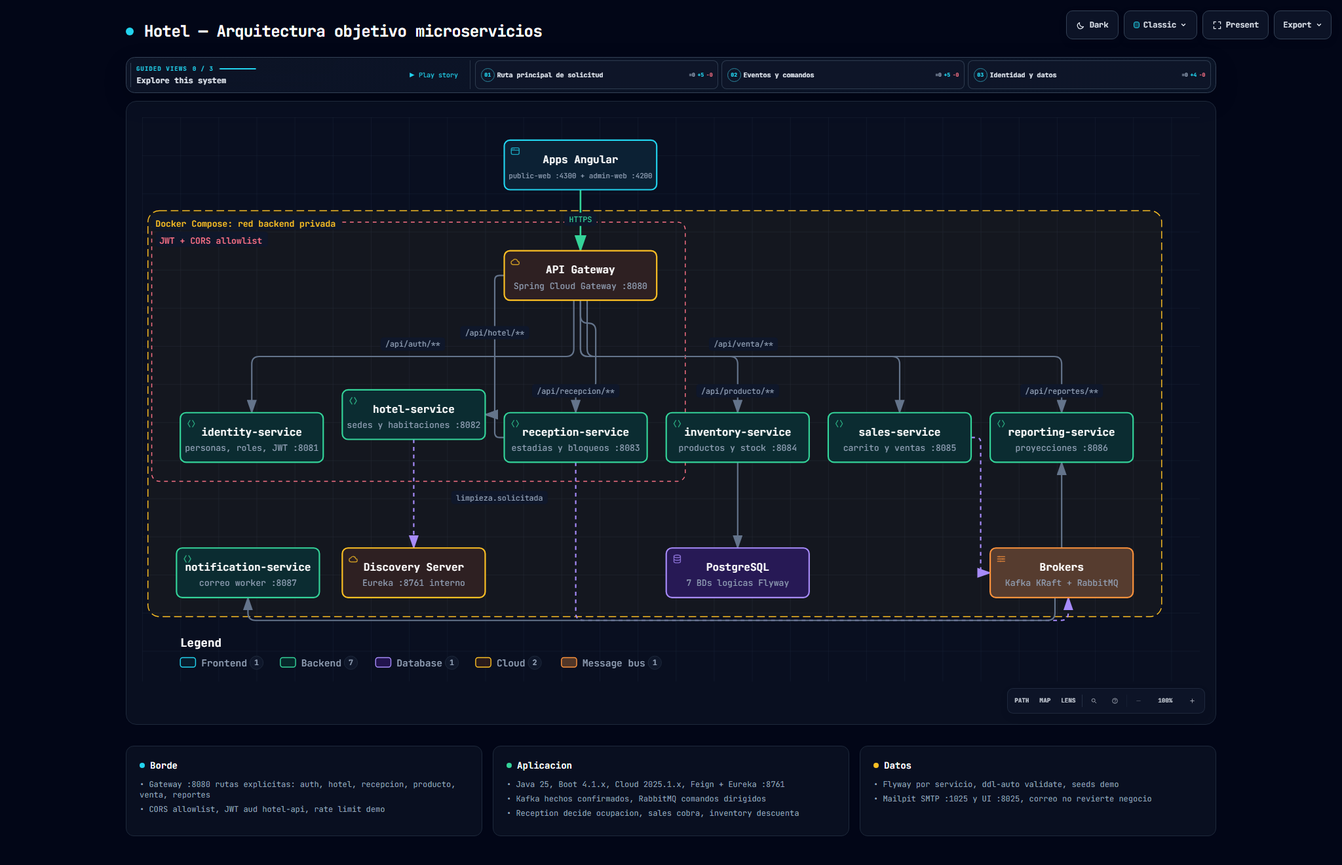
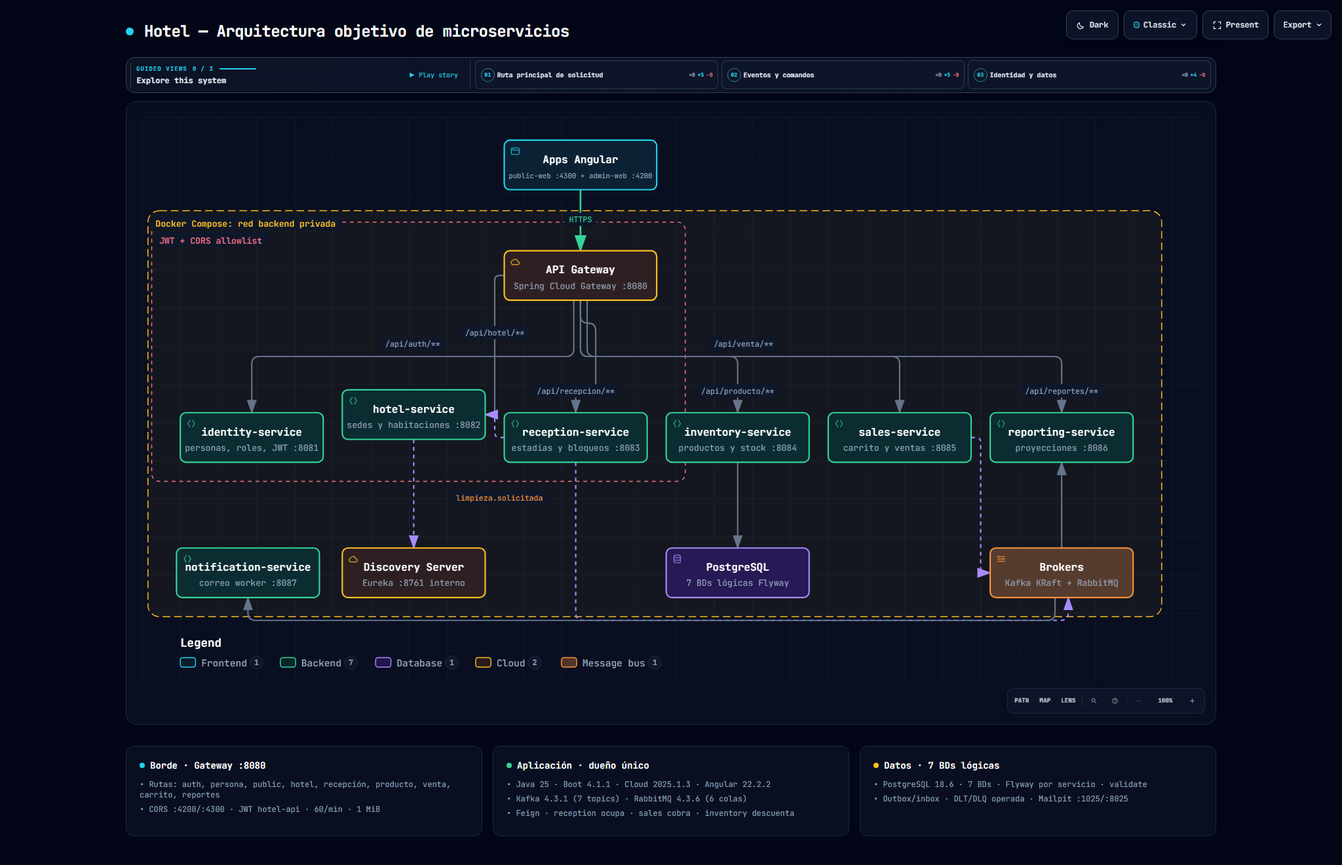
docs: actualiza diagrama de arquitectura del hotel

diff --git a/docs/diagramas/arquitectura-hotel/arquitectura-hotel.html b/docs/diagramas/arquitectura-hotel/arquitectura-hotel.html
@@ -4,7 +4,7 @@
   <meta charset="UTF-8">
   <meta name="viewport" content="width=device-width, initial-scale=1.0">
   <meta name="generator" content="archify 2.17.0-dev.1">
-  <title>Hotel — Arquitectura objetivo microservicios Diagram</title>
+  <title>Hotel — Arquitectura objetivo de microservicios Diagram</title>
   <script>
     // Resolve the theme before first paint so light-preference users don't
     // see a dark flash. The toolbar script below re-applies with UI state.
@@ -5081,11 +5081,11 @@ OTHER DEALINGS IN THE FONT SOFTWARE.
            data-preset-badge-blueprint="BLUEPRINT / REV 01"
            data-preset-badge-editorial="EDITORIAL / FIELD NOTE">
         <div class="pulse-dot"></div>
-        <h1>Hotel — Arquitectura objetivo microservicios</h1>
+        <h1>Hotel — Arquitectura objetivo de microservicios</h1>
       </div>
     </div>
 
-    <script id="archify-guided-views-data" type="application/json">[{"id":"ruta-principal","label":"Ruta principal de solicitud","focus":["webapps","gateway","reception","hotel","postgres"],"note":"Del panel y landing al Gateway y a recepcion y hotel hasta su BD propia."},{"id":"eventos-comandos","label":"Eventos y comandos","focus":["reception","sales","brokers","reporting","notification"],"note":"Hechos Kafka a reporting y comandos RabbitMQ a hotel, inventory y notificacion."},{"id":"identidad-datos","label":"Identidad y datos","focus":["gateway","identity","postgres","brokers"],"note":"JWT de identity validado en Gateway con siete BDs logicas separadas."}]</script>
+    <script id="archify-guided-views-data" type="application/json">[{"id":"ruta-principal","label":"Ruta principal de solicitud","focus":["webapps","gateway","reception","hotel","postgres"],"note":"Del panel y landing al Gateway y a recepción y hotel hasta su BD propia."},{"id":"eventos-comandos","label":"Eventos y comandos","focus":["reception","sales","brokers","reporting","notification"],"note":"Hechos Kafka a reporting y comandos RabbitMQ a hotel, inventory y notificación."},{"id":"identidad-datos","label":"Identidad y datos","focus":["gateway","identity","postgres","brokers"],"note":"JWT de identity validado en Gateway con siete BDs lógicas separadas."}]</script>
 
     <script id="archify-i18n-data" type="application/json">{"locale":"en","messages":{"viewer.kind.frontend":"Frontend","viewer.kind.backend":"Backend","viewer.kind.database":"Database","viewer.kind.cloud":"Cloud","viewer.kind.security":"Security","viewer.kind.messagebus":"Message bus","viewer.kind.external":"External","viewer.kind.neutral":"Neutral","viewer.kind.node":"Node","viewer.kind.start":"Start","viewer.kind.active":"Active","viewer.kind.waiting":"Waiting","viewer.kind.decision":"Decision","viewer.kind.success":"Success","viewer.kind.failure":"Failure","viewer.toolbar.actions":"Diagram actions","viewer.theme.toggle.title":"Toggle theme (T)","viewer.theme.toggle":"Toggle color theme","viewer.theme.dark":"Dark","viewer.theme.light":"Light","viewer.preset.choose.title":"Choose visual style (S cycles)","viewer.preset.choose":"Choose visual style","viewer.preset.style":"Style","viewer.preset.menu":"Visual style","viewer.preset.identity":"Visual identity","viewer.preset.cycles":"S cycles","viewer.preset.classic":"Classic","viewer.preset.classic.short":"Classic","viewer.preset.classic.hint":"Stable technical default","viewer.preset.flow":"Signal Flow","viewer.preset.flow.short":"Flow","viewer.preset.flow.hint":"Motion-forward presentation","viewer.preset.blueprint":"Blueprint","viewer.preset.blueprint.hint":"Engineering review","viewer.preset.editorial":"Editorial","viewer.preset.editorial.hint":"Publication and launch notes","viewer.preset.badge.signalFlow":"SIGNAL FLOW","viewer.preset.badge.blueprint":"BLUEPRINT / REV 01","viewer.preset.badge.editorial":"EDITORIAL / FIELD NOTE","viewer.preset.badge.editorialPlate":"ARCHIFY / PLATE 04","viewer.preset.current":"Visual style: {style}. Choose visual style","viewer.motion.live":"Live","viewer.motion.still":"Still","viewer.motion.pause":"Pause motion","viewer.motion.resume":"Resume motion","viewer.motion.reduced":"Motion paused by reduced-motion preference","viewer.motion.hidden":"Motion paused while this page is hidden","viewer.motion.yielding":"Pause motion; currently yielding to {owner}","viewer.motion.yielding.title":"Live preview enabled · yielding to {owner}","viewer.owner.story":"the guided story","viewer.owner.chapter":"the active chapter","viewer.owner.chapterPreview":"the chapter delta preview","viewer.owner.handoff":"the chapter handoff","viewer.owner.route":"Route Probe","viewer.owner.lens":"Semantic Lens","viewer.owner.relationship":"Relationship Preview","viewer.owner.intent":"Intent Trace","viewer.owner.focus":"semantic focus","viewer.owner.legend":"legend preview","viewer.owner.reader":"reader interaction","viewer.present.enter":"Enter presentation stage","viewer.present.enter.title":"Presentation stage (F)","viewer.present.exit":"Exit presentation stage","viewer.present.exit.title":"Exit presentation stage (F or Escape)","viewer.present.present":"Present","viewer.present.exit.label":"Exit","viewer.export.button":"Export","viewer.export.button.title":"Export diagram (E)","viewer.export.diagram":"Export diagram","viewer.export.menu":"Export","viewer.export.subtitle":"Portable, clean outputs","viewer.export.share":"Share","viewer.export.shareCard":"Share Card","viewer.export.routeShareCard":"Route Share Card","viewer.export.reachShareCard":"Reach Share Card","viewer.export.copyShareCard":"Copy Share Card","viewer.export.copyDiagram":"Copy diagram","viewer.export.clipboardPng":"PNG to clipboard","viewer.export.raster":"Raster images","viewer.export.image":"Image","viewer.export.lossless":"Lossless image","viewer.export.compact":"Compact image","viewer.export.modern":"Modern image","viewer.export.vectorMotion":"Vector and motion","viewer.export.vectorMotion.heading":"Vector \u0026 motion","viewer.export.editable":"Editable vector","viewer.export.motion6s":"6s motion","viewer.export.unsupported":"Not supported by this browser","viewer.export.clipboardUnsupported":"Clipboard image write not supported by this browser","viewer.export.clipboardUnsupported.period":"Clipboard image write not supported by this browser.","viewer.export.clipboardUnsupported.short":"Clipboard image write not supported in this browser.","viewer.export.motionUnavailable":"Motion capture unavailable in this browser","viewer.export.webmUnavailable":"WebM unavailable in this browser","viewer.export.failed":"Export failed: {message}","viewer.export.unknownVariant":"Unknown Share Card variant: {variant}","viewer.export.routeRequired":"Trace a route before exporting a Route Share Card","viewer.export.reachRequired":"Trace authored reach before exporting a Reach Share Card","viewer.export.unknown":"unknown","viewer.export.routeFailed":"Route Share Card export failed: {message}","viewer.export.reachFailed":"Reach Share Card export failed: {message}","viewer.export.copyFailed":"Copy failed: {message}","viewer.export.copiedPng":"Copied PNG to clipboard","viewer.export.copiedShare":"Copied Share Card","viewer.export.downloadedShare":"Downloaded Share Card","viewer.export.downloadedRoute":"Downloaded Route Share Card","viewer.export.downloadedReach":"Downloaded Reach Share Card","viewer.export.downloadedWebm":"Downloaded WebM","viewer.export.recording":"Recording 6 seconds of motion…","viewer.export.card.routeSummary.one":"Route: {source} → {target} · {count} directed hop","viewer.export.card.routeSummary.other":"Route: {source} → {target} · {count} directed hops","viewer.export.card.reachSummary":"Authored {direction} from {origin} · {nodes} · {links} · max {hops}","viewer.export.card.node.one":"{count} node","viewer.export.card.node.other":"{count} nodes","viewer.export.card.link.one":"{count} link","viewer.export.card.link.other":"{count} links","viewer.export.card.hop.one":"{count} hop","viewer.export.card.hop.other":"{count} hops","viewer.export.card.routeBadge":"ARCHIFY · ROUTE · {hops}","viewer.export.card.reachBadge":"ARCHIFY · {direction} REACH","viewer.export.card.defaultBadge":"ARCHIFY · {preset} · {theme}","viewer.export.direction.upstream":"Upstream","viewer.export.direction.downstream":"Downstream","viewer.export.error.canvasUnavailable":"Canvas unavailable for {label}","viewer.export.error.contextUnavailable":"2D canvas context unavailable for {label}","viewer.export.error.toBlobUnavailable":"canvas.toBlob unavailable for {label}","viewer.export.error.toBlobNull":"canvas.toBlob returned no data for {label}","viewer.export.error.variantsCombined":"Share Card variants cannot be combined","viewer.export.error.viewerState":"Share Card export could not remove temporary viewer state","viewer.export.error.routeState":"Route Card export could not preserve the resolved route safely","viewer.export.error.reachState":"Reach Card export could not preserve authored reach safely","viewer.export.error.webmRequirements":"WebM motion export requires a trace animation and browser MediaRecorder support","viewer.export.error.mediaRecorder":"MediaRecorder failed","viewer.export.error.emptyWebm":"MediaRecorder produced an empty WebM","viewer.export.error.webmBackground":"SVG background could not be loaded for WebM export","viewer.guided.region":"Guided diagram views","viewer.guided.previous":"Previous guided view","viewer.guided.previous.title":"Previous guided view ([)","viewer.guided.next":"Next guided view","viewer.guided.next.title":"Next guided view (])","viewer.guided.views":"Guided views","viewer.guided.explore":"Explore this system","viewer.guided.intro":"Step through curated paths without changing the source diagram.","viewer.guided.trail":"Story trail","viewer.guided.beat":"Beat","viewer.guided.nextBeat":"Next","viewer.guided.play":"Play guided story","viewer.guided.play.title":"Play guided story (P)","viewer.guided.pause":"Pause guided story","viewer.guided.pause.title":"Pause guided story (P)","viewer.guided.replay":"Replay guided story","viewer.guided.replay.title":"Replay guided story (P)","viewer.guided.playStory":"Play story","viewer.guided.pauseStory":"Pause","viewer.guided.replayStory":"Replay story","viewer.guided.motionUnavailable":"Story playback unavailable while motion is Still","viewer.guided.enableMotion":"Switch motion to Live to play the guided story","viewer.guided.selectBeatLink":"Select a Story Beat to copy its exact link","viewer.guided.copyMoment":"Copy moment","viewer.guided.momentCopied":"Moment link copied","viewer.guided.momentCopyFailed":"Could not copy story moment link","viewer.guided.copied":"Copied","viewer.guided.copyFailed":"Copy failed","viewer.guided.showAll":"Show all","viewer.guided.showAll.aria":"Show entire diagram","viewer.guided.chapters":"Story chapters","viewer.guided.storyTrail":"Story trail for {label}: {count} beats","viewer.guided.chapter.open":"Open chapter {index} of {total}: {label}, {count} stops","viewer.guided.chapter.current":"Current chapter {index} of {total}: {label}, {count} stops","viewer.guided.chapter.selectedNodes":"{count} selected nodes","viewer.guided.chapter.stops":"{count} stops","viewer.guided.chapter.stop.one":"{count} stop","viewer.guided.chapter.stop.other":"{count} stops","viewer.guided.chapter.current.title":"{label} — current chapter, {count} stops","viewer.guided.chapter.delta.expanded":"{stay} stay, {enter} enter, {leave} leave","viewer.guided.chapter.delta.aria":"Open chapter {index} of {total}: {label}. Chapter focus delta: {delta}","viewer.guided.chapter.delta.title":"{label} — {delta} chapter focus","viewer.guided.handoff":"{from} → {to} · via {label}","viewer.guided.share.chapter":"Chapter {index} / {total}","viewer.guided.share.initial":"Chapter 01 / 01","viewer.guided.share.default":"Guided chapter","viewer.guided.state.ready":"Ready","viewer.guided.state.playing":"Playing","viewer.guided.state.settled":"Settled","viewer.guided.state.paused":"Paused","viewer.guided.state.pinned":"Pinned","viewer.guided.state.still":"Still","viewer.guided.share.step":"Step {index} / {total} · {label}","viewer.guided.share.staticMoment":"{step} · Static moment","viewer.guided.share.complete":"{count} steps complete · {note}","viewer.guided.share.settled":"Path settled for reading.","viewer.guided.share.staticPath":"{count} steps · Static path","viewer.guided.share.ready":"{count} steps · Ready","viewer.guided.share.aria":"{state} chapter {index} of {total}: {label}. {beat}. {route}","viewer.guided.beat.start":"Beat {index} / {total} · {label} · starting point","viewer.guided.beat.forward":"Beat {index} / {total} · {from} → {to}","viewer.guided.beat.reverse":"Beat {index} / {total} · {from} → {to} · reverse authored link","viewer.guided.beat.multiple":"Beat {index} / {total} · {from} ⇄ {to} · {count} authored links","viewer.guided.beat.group":"Beat {index} / {total} · {from} · {to} · grouped · no direct link","viewer.guided.beat.aria.prefix":"Story beat {index} of {total}: {label}. ","viewer.guided.beat.aria.start":"Starting point.","viewer.guided.beat.aria.forward":"From {from} through one authored forward relationship.","viewer.guided.beat.aria.reverse":"From {from}; the authored relationship points from {to} to {from}.","viewer.guided.beat.aria.multiple":"From {from} through {count} authored relationships; shown without arbitrary motion.","viewer.guided.beat.aria.group":"Grouped from {from} with no direct authored relationship.","viewer.guided.caption.start":"Starting point","viewer.guided.caption.grouped":"Grouped transition · no direct authored link","viewer.guided.caption.more":" +{count} more","viewer.guided.caption.reverse":"Reverse authored relationship","viewer.guided.caption.relationships":"{count} authored relationships","viewer.guided.caption.relationship":"Authored relationship","viewer.guided.caption.direction":"authored direction: {from} → {to}","viewer.guided.caption.starting":"Authored starting point","viewer.guided.beatLink":"Copy link to current story moment: Beat {index} of {total}: {label}","viewer.guided.noStory":"This diagram has no authored guided story.","viewer.guide.eyebrow":"Diagram guide","viewer.guide.close":"Close diagram guide","viewer.guide.inspecting":"Inspecting compiled semantics","viewer.guide.actions":"Diagram exploration actions","viewer.guide.find":"Find any node","viewer.guide.find.hint":"Search labels, responsibilities, kinds, and stable IDs.","viewer.guide.route":"Trace a route","viewer.guide.route.aria":"Trace a directed route","viewer.guide.route.hint":"Ask how two semantic nodes connect in authored direction.","viewer.guide.map":"See the whole system","viewer.guide.map.hint":"Open Semantic Radar with a live viewport and stable nodes.","viewer.guide.lens":"Compare semantic kinds","viewer.guide.lens.hint":"Count roles, reveal their traffic, and compare direct authored links.","viewer.guide.story":"Play the guided story","viewer.guide.story.hint":"Walk the authored chapters and real relationships.","viewer.guide.present":"Enter Presentation Stage","viewer.guide.present.hint":"Give the live diagram the viewport without changing export.","viewer.guide.shortcuts":"Additional keyboard shortcuts","viewer.guide.shortcut.export":"Export","viewer.guide.shortcut.theme":"Theme","viewer.guide.shortcut.style":"Style","viewer.guide.shortcut.reset":"Reset","viewer.guide.shortcut.zoomIn":"Zoom in","viewer.guide.shortcut.zoomOut":"Zoom out","viewer.guide.shortcut.close":"Close","viewer.guide.facts":"{nodes} · {relationships} · {views}","viewer.guide.fact.node.one":"{count} semantic node","viewer.guide.fact.node.other":"{count} semantic nodes","viewer.guide.fact.relationship.one":"{count} relationship","viewer.guide.fact.relationship.other":"{count} relationships","viewer.guide.fact.view.one":"{count} guided view","viewer.guide.fact.view.other":"{count} guided views","viewer.guide.story.available.one":"Walk {count} authored chapter and its real relationships.","viewer.guide.story.available.other":"Walk {count} authored chapters and their real relationships.","viewer.guide.story.unavailable":"No authored guided story in this diagram.","viewer.guide.open":"Open diagram guide","viewer.guide.noStory":"This diagram has no authored guided story.","viewer.finder.title":"Find a node","viewer.finder.close":"Close node finder","viewer.finder.placeholder":"Search labels or IDs","viewer.finder.search":"Search diagram nodes","viewer.finder.results":"Diagram nodes","viewer.finder.empty":"No matching nodes","viewer.finder.result.focus":"Focus {label}","viewer.finder.result.routeStart":"Choose {label} as route start","viewer.finder.result.routeTarget":"Choose {label} as route destination, {links}","viewer.finder.status.empty":"No matching nodes","viewer.finder.status.count.one":"{count} matching node","viewer.finder.status.count.other":"{count} matching nodes","viewer.finder.noun.nodes":"nodes","viewer.finder.link.one":"{count} link","viewer.finder.link.other":"{count} links","viewer.finder.result.focus.one":"Focus {label}, {count} related connection","viewer.finder.result.focus.other":"Focus {label}, {count} related connections","viewer.finder.status.filtered":"{visible} of {available} {noun}","viewer.finder.status.all":"{available} {noun}","viewer.passport.eyebrow":"Semantic passport","viewer.passport.metadata":"Node metadata","viewer.passport.evidence":"Verified source evidence","viewer.passport.verified":"Verified source","viewer.passport.verificationScope":"Verified against local Git at the pinned revision. Remote access has not been checked.","viewer.passport.reach":"Authored reach","viewer.passport.reach.trace":"Trace authored reachability","viewer.passport.upstream":"Upstream","viewer.passport.downstream":"Downstream","viewer.passport.upstream.trace":"Trace upstream authored reachability","viewer.passport.downstream.trace":"Trace downstream authored reachability","viewer.passport.close":"Close semantic passport","viewer.passport.copy":"Copy link","viewer.passport.copy.focus":"Copy link to focused node","viewer.passport.relations":"Relations","viewer.passport.relations.show":"Show connected relationships","viewer.passport.relations.hide":"Hide connected relationships","viewer.passport.relations.list":"Connected relationships","viewer.passport.copyRelation":"Copy relation","viewer.passport.copyNode":"Copy node","viewer.passport.copyPinned":"Copy link to pinned relationship","viewer.passport.copySource":"Copy link to source node","viewer.passport.copy.focused.success":"Focused node link copied","viewer.passport.copy.pinned.success":"Pinned relationship link copied","viewer.passport.copy.focused.failed":"Could not copy focused node link","viewer.passport.copy.pinned.failed":"Could not copy pinned relationship link","viewer.passport.relationship.none":"No connected relationships","viewer.passport.relationship.count.one":"{count} relation","viewer.passport.relationship.count.other":"{count} relations","viewer.passport.relationship.show.one":"Show {count} connected relationship","viewer.passport.relationship.show.other":"Show {count} connected relationships","viewer.passport.relationship.summary":"{out} outgoing · {in} incoming{loops}","viewer.passport.relationship.loops":" · {count} loop","viewer.passport.relationship.explorer":"Direct relationship explorer","viewer.passport.relationship.help":"Use arrow keys to explore relationships. Press Enter or Space to pin details; Escape clears.","viewer.passport.relationship.loopsBack":"loops back","viewer.passport.relationship.connectsTo":"connects to","viewer.passport.relationship.connectsFrom":"connects from","viewer.passport.relationship.pinned":"Pinned relationship · {from} → {to} · {label}","viewer.passport.relationship.inspect":"Inspect relationship {index} of {total}: {from} to {to}, {label}. Press Enter for details.","viewer.passport.relationship.group.out":"Outgoing","viewer.passport.relationship.group.in":"Incoming","viewer.passport.relationship.group.loop":"Self loops","viewer.passport.relationship.row":"{group}: {relationship}, {neighbor}","viewer.passport.relationship.direction.out":"OUT →","viewer.passport.relationship.direction.in":"← IN","viewer.passport.relationship.direction.loop":"LOOP","viewer.passport.sourceCount.one":"{count} verified source reference","viewer.passport.sourceCount.other":"{count} verified source references","viewer.passport.sourceMarker":"SRC","viewer.passport.beacon.one":"{count} verified source; focus this node to inspect","viewer.passport.beacon.other":"{count} verified sources; focus this node to inspect","viewer.passport.repository.open":"Open verified repository revision {revision}","viewer.passport.source.open":"Open verified source {path} at revision {revision}","viewer.passport.source.openLink":"Open ↗","viewer.passport.reach.upstream.one":"Trace {count} upstream authored node","viewer.passport.reach.upstream.other":"Trace {count} upstream authored nodes","viewer.passport.reach.downstream.one":"Trace {count} downstream authored node","viewer.passport.reach.downstream.other":"Trace {count} downstream authored nodes","viewer.passport.reach.noUpstream":"No upstream authored nodes","viewer.passport.reach.noDownstream":"No downstream authored nodes","viewer.passport.reach.status":"{direction} · {nodes} nodes · {links} links · max {hops} hops","viewer.route.eyebrow":"Route probe","viewer.route.start":"Choose a start node","viewer.route.start.find":"Find start","viewer.route.start.find.aria":"Find a route start","viewer.route.copy":"Copy link","viewer.route.copy.aria":"Copy link to traced route","viewer.route.clear":"Clear","viewer.route.clear.aria":"Clear route probe","viewer.route.traced":"Traced route","viewer.route.pickTwo":"Pick two semantic nodes on the diagram","viewer.route.pickOne":"Pick a semantic node on the diagram","viewer.route.controls":"Route journey controls","viewer.route.previous":"Previous route position","viewer.route.play":"Play route journey","viewer.route.pause":"Pause route journey","viewer.route.replay":"Replay route journey","viewer.route.next":"Next route position","viewer.route.journey":"Journey","viewer.route.pause.label":"Pause","viewer.route.replay.label":"Replay","viewer.route.overview":"Overview","viewer.route.overview.aria":"Show complete route overview","viewer.route.instructions":"Choose the source, then the destination. Direction matters.","viewer.route.destination":"Choose a destination from {label}","viewer.route.destination.find":"Find target","viewer.route.destination.find.aria":"Find a reachable route destination","viewer.route.differentDestination":"Choose a different destination","viewer.route.distinct":"A route needs two distinct semantic nodes.","viewer.route.unreachable":"No directed route to {label}","viewer.route.unreachable.detail":"{target} is not reachable from {source}. Pick a highlighted destination.","viewer.route.start.instructions":"Select the source. The next step will reveal only directed destinations.","viewer.route.copy.success":"Traced route link copied","viewer.route.copy.failed":"Could not copy traced route link","viewer.route.position":"Route position {index} of {total}: {label}","viewer.route.step":"Step {index} of {total} · {phase} · {label}","viewer.route.motionRequired":"Automatic journey requires Live motion","viewer.route.trigger.clear":"Clear traced route","viewer.route.overview.status":"{nodes} · {hops} · shortest authored route","viewer.route.overview.node.one":"{count} node","viewer.route.overview.node.other":"{count} nodes","viewer.route.overview.hop.one":"{count} directed hop","viewer.route.overview.hop.other":"{count} directed hops","viewer.route.phase.playing":"Playing","viewer.route.phase.complete":"Complete","viewer.route.phase.inspecting":"Inspecting","viewer.route.destination.count.one":"{count} directed destination available. Pick a highlighted node.","viewer.route.destination.count.other":"{count} directed destinations available. Pick a highlighted node.","viewer.route.noOutgoing":"No outgoing route starts here. Clear and choose another source.","viewer.route.result.title":"{source} to {target}","viewer.route.finder.source.title":"Choose route start","viewer.route.finder.source.placeholder":"Search route sources","viewer.route.finder.source.empty":"No matching route sources","viewer.route.finder.source.results":"Nodes that can start a route","viewer.route.finder.source.noun":"route sources","viewer.route.finder.source.badge":"start","viewer.route.finder.target.title":"Destination from {label}","viewer.route.finder.target.placeholder":"Search reachable destinations","viewer.route.finder.target.empty":"No matching reachable destinations","viewer.route.finder.target.results":"Reachable route destinations","viewer.route.finder.target.noun":"reachable destinations","viewer.route.hop.one":"{count} hop","viewer.route.hop.other":"{count} hops","viewer.lens.eyebrow":"Semantic lens","viewer.lens.title":"Compare system roles","viewer.lens.close":"Close semantic lens","viewer.lens.instruction":"Choose up to two semantic kinds. One reveals its real traffic; two compare only direct authored relationships.","viewer.lens.kinds":"Semantic kinds","viewer.lens.choose":"Choose a kind to inspect its nodes and touching relationships.","viewer.lens.copy":"Copy link to semantic lens","viewer.lens.clear":"Clear semantic lens","viewer.lens.open":"Open semantic lens","viewer.lens.openActive":"Open active semantic lens","viewer.lens.legend":"Semantic legend","viewer.lens.legend.inspect.one":"Inspect {label}, {count} node","viewer.lens.legend.inspect.other":"Inspect {label}, {count} nodes","viewer.lens.kind.count.one":"{label}, {count} node","viewer.lens.kind.count.other":"{label}, {count} nodes","viewer.lens.compare.one":"{first} → {second}: {forward} · {second} → {first}: {reverse} · {count} direct relationship","viewer.lens.compare.other":"{first} → {second}: {forward} · {second} → {first}: {reverse} · {count} direct relationships","viewer.lens.single":"{nodes} · {relationships} · connected peers remain visible","viewer.lens.node.one":"{count} {label} node","viewer.lens.node.other":"{count} {label} nodes","viewer.lens.relationship.one":"{count} touching relationship","viewer.lens.relationship.other":"{count} touching relationships","viewer.radar.title":"Semantic radar","viewer.radar.building":"Building overview","viewer.radar.openFull":"Open full semantic radar","viewer.radar.open":"Open radar","viewer.radar.close":"Close semantic radar","viewer.radar.surface":"Diagram overview. Click a node to focus it, or use arrow keys to pan.","viewer.radar.click":"Click node","viewer.radar.drag":"Drag to pan","viewer.radar.space":"Semantic radar needs more MAP space.","viewer.radar.nodes":"Semantic diagram radar nodes","viewer.radar.focus":"Focus {label} from Semantic Radar","viewer.radar.status":"{count} nodes · {viewport}","viewer.radar.fullMap":"{count} nodes · full map","viewer.radar.compacted":"Radar compacted to avoid covering the Semantic Passport or MAP controls.","viewer.radar.cancelWaiting":"Cancel semantic radar waiting for more MAP space","viewer.radar.needsSpace":"Semantic radar needs more visible MAP space","viewer.radar.viewport.full":"full map","viewer.radar.viewport.width":"{percent}% width","viewer.radar.viewport.scale":"{percent}% viewport","viewer.nav.controls":"Diagram view controls","viewer.nav.route":"Trace a directed route","viewer.nav.route.title":"Trace route (R)","viewer.nav.route.short":"PATH","viewer.nav.radar":"Open semantic radar","viewer.nav.radar.title":"Semantic radar (M)","viewer.nav.radar.short":"MAP","viewer.nav.lens":"Open semantic lens","viewer.nav.lens.title":"Semantic lens (L)","viewer.nav.lens.short":"LENS","viewer.nav.find":"Find a node","viewer.nav.find.title":"Find a node (/)","viewer.nav.guide":"Open diagram guide","viewer.nav.guide.title":"Diagram guide (?)","viewer.nav.zoomOut":"Zoom out","viewer.nav.zoomOut.title":"Zoom out (-)","viewer.nav.reset":"Reset diagram view","viewer.nav.reset.title":"Reset view (0)","viewer.nav.read":"READ","viewer.nav.zoomIn":"Zoom in","viewer.nav.zoomIn.title":"Zoom in (+)","viewer.nav.camera":"{hint}. Reset diagram view","viewer.nav.camera.title":"{semantic}{hint} · reset view (0)","viewer.nav.camera.semantic":"Semantic camera active · ","viewer.nav.level.map":"MAP","viewer.nav.level.read":"READ","viewer.nav.level.full":"FULL","viewer.nav.level.auto":"AUTO","viewer.nav.detail.map":"Zoom in to reveal relationship labels and node context","viewer.nav.detail.read":"Zoom in again to reveal tags and annotations","viewer.nav.detail.full":"Full diagram detail","viewer.intent.summary":"{label}. {out} outgoing, {in} incoming{loops}. {total} connections. Press Enter for details.","viewer.intent.loops":", {count} self loop","viewer.common.copied":"Copied","viewer.common.copyFailed":"Copy failed","viewer.common.copyLink":"Copy link","viewer.common.clear":"Clear","viewer.common.close":"Close"}}</script>
     <div class="guided-views no-print" id="guided-views" hidden aria-label="Guided diagram views">
@@ -5131,7 +5131,7 @@ OTHER DEALINGS IN THE FONT SOFTWARE.
     <div class="diagram-container" data-detail-level="read"
          data-preset-badge-editorial-plate="ARCHIFY / PLATE 04">
       <svg viewBox="0 0 1110 592" role="img" lang="en" aria-labelledby="archify-diagram-title archify-diagram-description" data-preset="classic" data-quality-profile="showcase">
-        <title id="archify-diagram-title">Hotel — Arquitectura objetivo microservicios</title>
+        <title id="archify-diagram-title">Hotel — Arquitectura objetivo de microservicios</title>
         <desc id="archify-diagram-description">An architecture diagram generated by Archify.</desc>
         <!-- Definitions -->
         <defs>
@@ -5168,7 +5168,7 @@ OTHER DEALINGS IN THE FONT SOFTWARE.
         <path data-edge-from="gateway" data-edge-to="sales" data-edge-label="/api/venta/**" data-edge-key="4" data-edge-id="gw-to-sales" data-composition-points="467,192;467,251;795,251;795,310" d="M 467 192 L 467 243 Q 467 251 475 251 L 787 251 Q 795 251 795 259 L 795 310" class="a-default" stroke-width="1.5" marker-end="url(#arrowhead)"/>
         <path data-edge-from="gateway" data-edge-to="inventory" data-edge-label="/api/producto/**" data-edge-key="5" data-edge-id="gw-to-inventory" data-composition-points="460,192;460,251;625,251;625,310" d="M 460 192 L 460 243 Q 460 251 468 251 L 617 251 Q 625 251 625 259 L 625 310" class="a-default" stroke-width="1.5" marker-end="url(#arrowhead)"/>
         <path data-edge-from="gateway" data-edge-to="reporting" data-edge-label="/api/reportes/**" data-edge-key="6" data-edge-id="gw-to-reporting" data-composition-points="460,192;460,251;965,251;965,310" d="M 460 192 L 460 243 Q 460 251 468 251 L 957 251 Q 965 251 965 259 L 965 310" class="a-default" stroke-width="1.5" marker-end="url(#arrowhead)"/>
-        <path data-edge-from="reception" data-edge-to="hotel" data-edge-label="limpieza.solicitada" data-edge-key="7" data-edge-id="reception-to-hotel" data-composition-points="380,336;370,336;370,312;360,312" d="M 380 336 L 375 336 Q 370 336 370 331 L 370 317 Q 370 312 365 312 L 360 312" class="a-default" stroke-width="1.5" marker-end="url(#arrowhead)"/>
+        <path data-edge-from="reception" data-edge-to="hotel" data-edge-label="limpieza.solicitada" data-edge-key="7" data-edge-id="reception-to-hotel" data-composition-points="380,336;370,336;370,312;360,312" d="M 380 336 L 375 336 Q 370 336 370 331 L 370 317 Q 370 312 365 312 L 360 312" class="a-dashed" stroke-width="1.5" marker-end="url(#arrowhead-dashed)"/>
         <path data-edge-from="reception" data-edge-to="brokers" data-edge-key="8" data-edge-id="reception-to-brokers" data-composition-points="455,362;455,528;972,528;972,504" d="M 455 362 L 455 520 Q 455 528 463 528 L 964 528 Q 972 528 972 520 L 972 504" class="a-dashed" stroke-width="1.5" marker-end="url(#arrowhead-dashed)"/>
         <path data-edge-from="sales" data-edge-to="brokers" data-edge-key="9" data-edge-id="sales-to-brokers" data-composition-points="870,336;880,336;880,478;890,478" d="M 870 336 L 875 336 Q 880 336 880 341 L 880 473 Q 880 478 885 478 L 890 478" class="a-dashed" stroke-width="1.5" marker-end="url(#arrowhead-dashed)"/>
         <path data-edge-from="brokers" data-edge-to="reporting" data-edge-key="10" data-edge-id="brokers-to-reporting" data-composition-points="965,452;965,362" d="M 965 452 L 965 362" class="a-default" stroke-width="1.5" marker-end="url(#arrowhead)"/>
@@ -5224,15 +5224,15 @@ OTHER DEALINGS IN THE FONT SOFTWARE.
         <text data-detail="context" x="285" y="326" class="t-muted" font-size="9" text-anchor="middle">sedes y habitaciones :8082</text>
         </g>
 
-        <g id="node-reception" data-node-id="reception" data-node-label="reception-service" tabindex="0" role="button" aria-label="Focus reception-service, estadias y bloqueos :8083, Docker Compose: red backend privada" aria-pressed="false" data-node-kind="backend" data-node-sublabel="estadias y bloqueos :8083" data-node-context="Docker Compose: red backend privada">
-          <title>reception-service · estadias y bloqueos :8083 · Docker Compose: red backend privada</title>
+        <g id="node-reception" data-node-id="reception" data-node-label="reception-service" tabindex="0" role="button" aria-label="Focus reception-service, estadías y bloqueos :8083, Docker Compose: red backend privada" aria-pressed="false" data-node-kind="backend" data-node-sublabel="estadías y bloqueos :8083" data-node-context="Docker Compose: red backend privada">
+          <title>reception-service · estadías y bloqueos :8083 · Docker Compose: red backend privada</title>
           <rect x="380" y="310" width="150" height="52" rx="6" class="c-mask"/>
           <rect x="380" y="310" width="150" height="52" rx="6" class="c-backend" stroke-width="1.5"/>
           <g aria-hidden="true" data-semantic-sigil="backend" class="semantic-sigil s-backend" transform="translate(386 316) scale(0.6875)">
             <path d="M6 3 3 8l3 5M10 3l3 5-3 5"/>
           </g>
           <text data-node-label="" data-detail-anchor="" x="455" y="334" class="t-primary" font-size="11" font-weight="600" text-anchor="middle">reception-service</text>
-        <text data-detail="context" x="455" y="350" class="t-muted" font-size="9" text-anchor="middle">estadias y bloqueos :8083</text>
+        <text data-detail="context" x="455" y="350" class="t-muted" font-size="9" text-anchor="middle">estadías y bloqueos :8083</text>
         </g>
 
         <g id="node-inventory" data-node-id="inventory" data-node-label="inventory-service" tabindex="0" role="button" aria-label="Focus inventory-service, productos y stock :8084, Docker Compose: red backend privada" aria-pressed="false" data-node-kind="backend" data-node-sublabel="productos y stock :8084" data-node-context="Docker Compose: red backend privada">
@@ -5290,8 +5290,8 @@ OTHER DEALINGS IN THE FONT SOFTWARE.
         <text data-detail="context" x="285" y="492" class="t-muted" font-size="9" text-anchor="middle">Eureka :8761 interno</text>
         </g>
 
-        <g id="node-postgres" data-node-id="postgres" data-node-label="PostgreSQL" tabindex="0" role="button" aria-label="Focus PostgreSQL, 7 BDs logicas Flyway, Docker Compose: red backend privada" aria-pressed="false" data-node-kind="database" data-node-sublabel="7 BDs logicas Flyway" data-node-context="Docker Compose: red backend privada">
-          <title>PostgreSQL · 7 BDs logicas Flyway · Docker Compose: red backend privada</title>
+        <g id="node-postgres" data-node-id="postgres" data-node-label="PostgreSQL" tabindex="0" role="button" aria-label="Focus PostgreSQL, 7 BDs lógicas Flyway, Docker Compose: red backend privada" aria-pressed="false" data-node-kind="database" data-node-sublabel="7 BDs lógicas Flyway" data-node-context="Docker Compose: red backend privada">
+          <title>PostgreSQL · 7 BDs lógicas Flyway · Docker Compose: red backend privada</title>
           <rect x="550" y="452" width="150" height="52" rx="6" class="c-mask"/>
           <rect x="550" y="452" width="150" height="52" rx="6" class="c-database" stroke-width="1.5"/>
           <g aria-hidden="true" data-semantic-sigil="database" class="semantic-sigil s-database" transform="translate(556 458) scale(0.6875)">
@@ -5299,7 +5299,7 @@ OTHER DEALINGS IN THE FONT SOFTWARE.
             <path d="M3 4v8c0 1.1 2.2 2 5 2s5-.9 5-2V4M3 8c0 1.1 2.2 2 5 2s5-.9 5-2"/>
           </g>
           <text data-node-label="" data-detail-anchor="" x="625" y="476" class="t-primary" font-size="11" font-weight="600" text-anchor="middle">PostgreSQL</text>
-        <text data-detail="context" x="625" y="492" class="t-muted" font-size="9" text-anchor="middle">7 BDs logicas Flyway</text>
+        <text data-detail="context" x="625" y="492" class="t-muted" font-size="9" text-anchor="middle">7 BDs lógicas Flyway</text>
         </g>
 
         <g id="node-brokers" data-node-id="brokers" data-node-label="Brokers" tabindex="0" role="button" aria-label="Focus Brokers, Kafka KRaft + RabbitMQ, Docker Compose: red backend privada" aria-pressed="false" data-node-kind="messagebus" data-node-sublabel="Kafka KRaft + RabbitMQ" data-node-context="Docker Compose: red backend privada">
@@ -5347,7 +5347,7 @@ OTHER DEALINGS IN THE FONT SOFTWARE.
         </g>
         <g data-detail="context" data-edge-from="reception" data-edge-to="hotel" data-edge-label="limpieza.solicitada" data-edge-key="7" data-edge-id="reception-to-hotel">
           <rect x="324.4" y="392" width="101.2" height="14" rx="3" class="c-mask"/>
-          <text x="375" y="402" class="t-muted" font-size="8" text-anchor="middle">limpieza.solicitada</text>
+          <text x="375" y="402" class="t-messagebus" font-size="8" text-anchor="middle">limpieza.solicitada</text>
         </g>
 
 
@@ -5580,34 +5580,34 @@ OTHER DEALINGS IN THE FONT SOFTWARE.
       <div class="card">
         <div class="card-header">
           <div class="card-dot cyan"></div>
-          <h3>Borde</h3>
+          <h3>Borde · Gateway :8080</h3>
         </div>
         <ul>
-          <li>&bull; Gateway :8080 rutas explicitas: auth, hotel, recepcion, producto, venta, reportes</li>
-          <li>&bull; CORS allowlist, JWT aud hotel-api, rate limit demo</li>
+          <li>&bull; Rutas: auth, persona, public, hotel, recepción, producto, venta, carrito, reportes</li>
+          <li>&bull; CORS :4200/:4300 · JWT hotel-api · 60/min · 1 MiB</li>
         </ul>
       </div>
 
       <div class="card">
         <div class="card-header">
           <div class="card-dot emerald"></div>
-          <h3>Aplicacion</h3>
+          <h3>Aplicación · dueño único</h3>
         </div>
         <ul>
-          <li>&bull; Java 25, Boot 4.1.x, Cloud 2025.1.x, Feign + Eureka :8761</li>
-          <li>&bull; Kafka hechos confirmados, RabbitMQ comandos dirigidos</li>
-          <li>&bull; Reception decide ocupacion, sales cobra, inventory descuenta</li>
+          <li>&bull; Java 25 · Boot 4.1.1 · Cloud 2025.1.3 · Angular 22.2.2</li>
+          <li>&bull; Kafka 4.3.1 (7 topics) · RabbitMQ 4.3.6 (6 colas)</li>
+          <li>&bull; Feign · reception ocupa · sales cobra · inventory descuenta</li>
         </ul>
       </div>
 
       <div class="card">
         <div class="card-header">
           <div class="card-dot amber"></div>
-          <h3>Datos</h3>
+          <h3>Datos · 7 BDs lógicas</h3>
         </div>
         <ul>
-          <li>&bull; Flyway por servicio, ddl-auto validate, seeds demo</li>
-          <li>&bull; Mailpit SMTP :1025 y UI :8025, correo no revierte negocio</li>
+          <li>&bull; PostgreSQL 18.6 · 7 BDs · Flyway por servicio · validate</li>
+          <li>&bull; Outbox/inbox · DLT/DLQ operada · Mailpit :1025/:8025</li>
         </ul>
       </div>
     </div>
